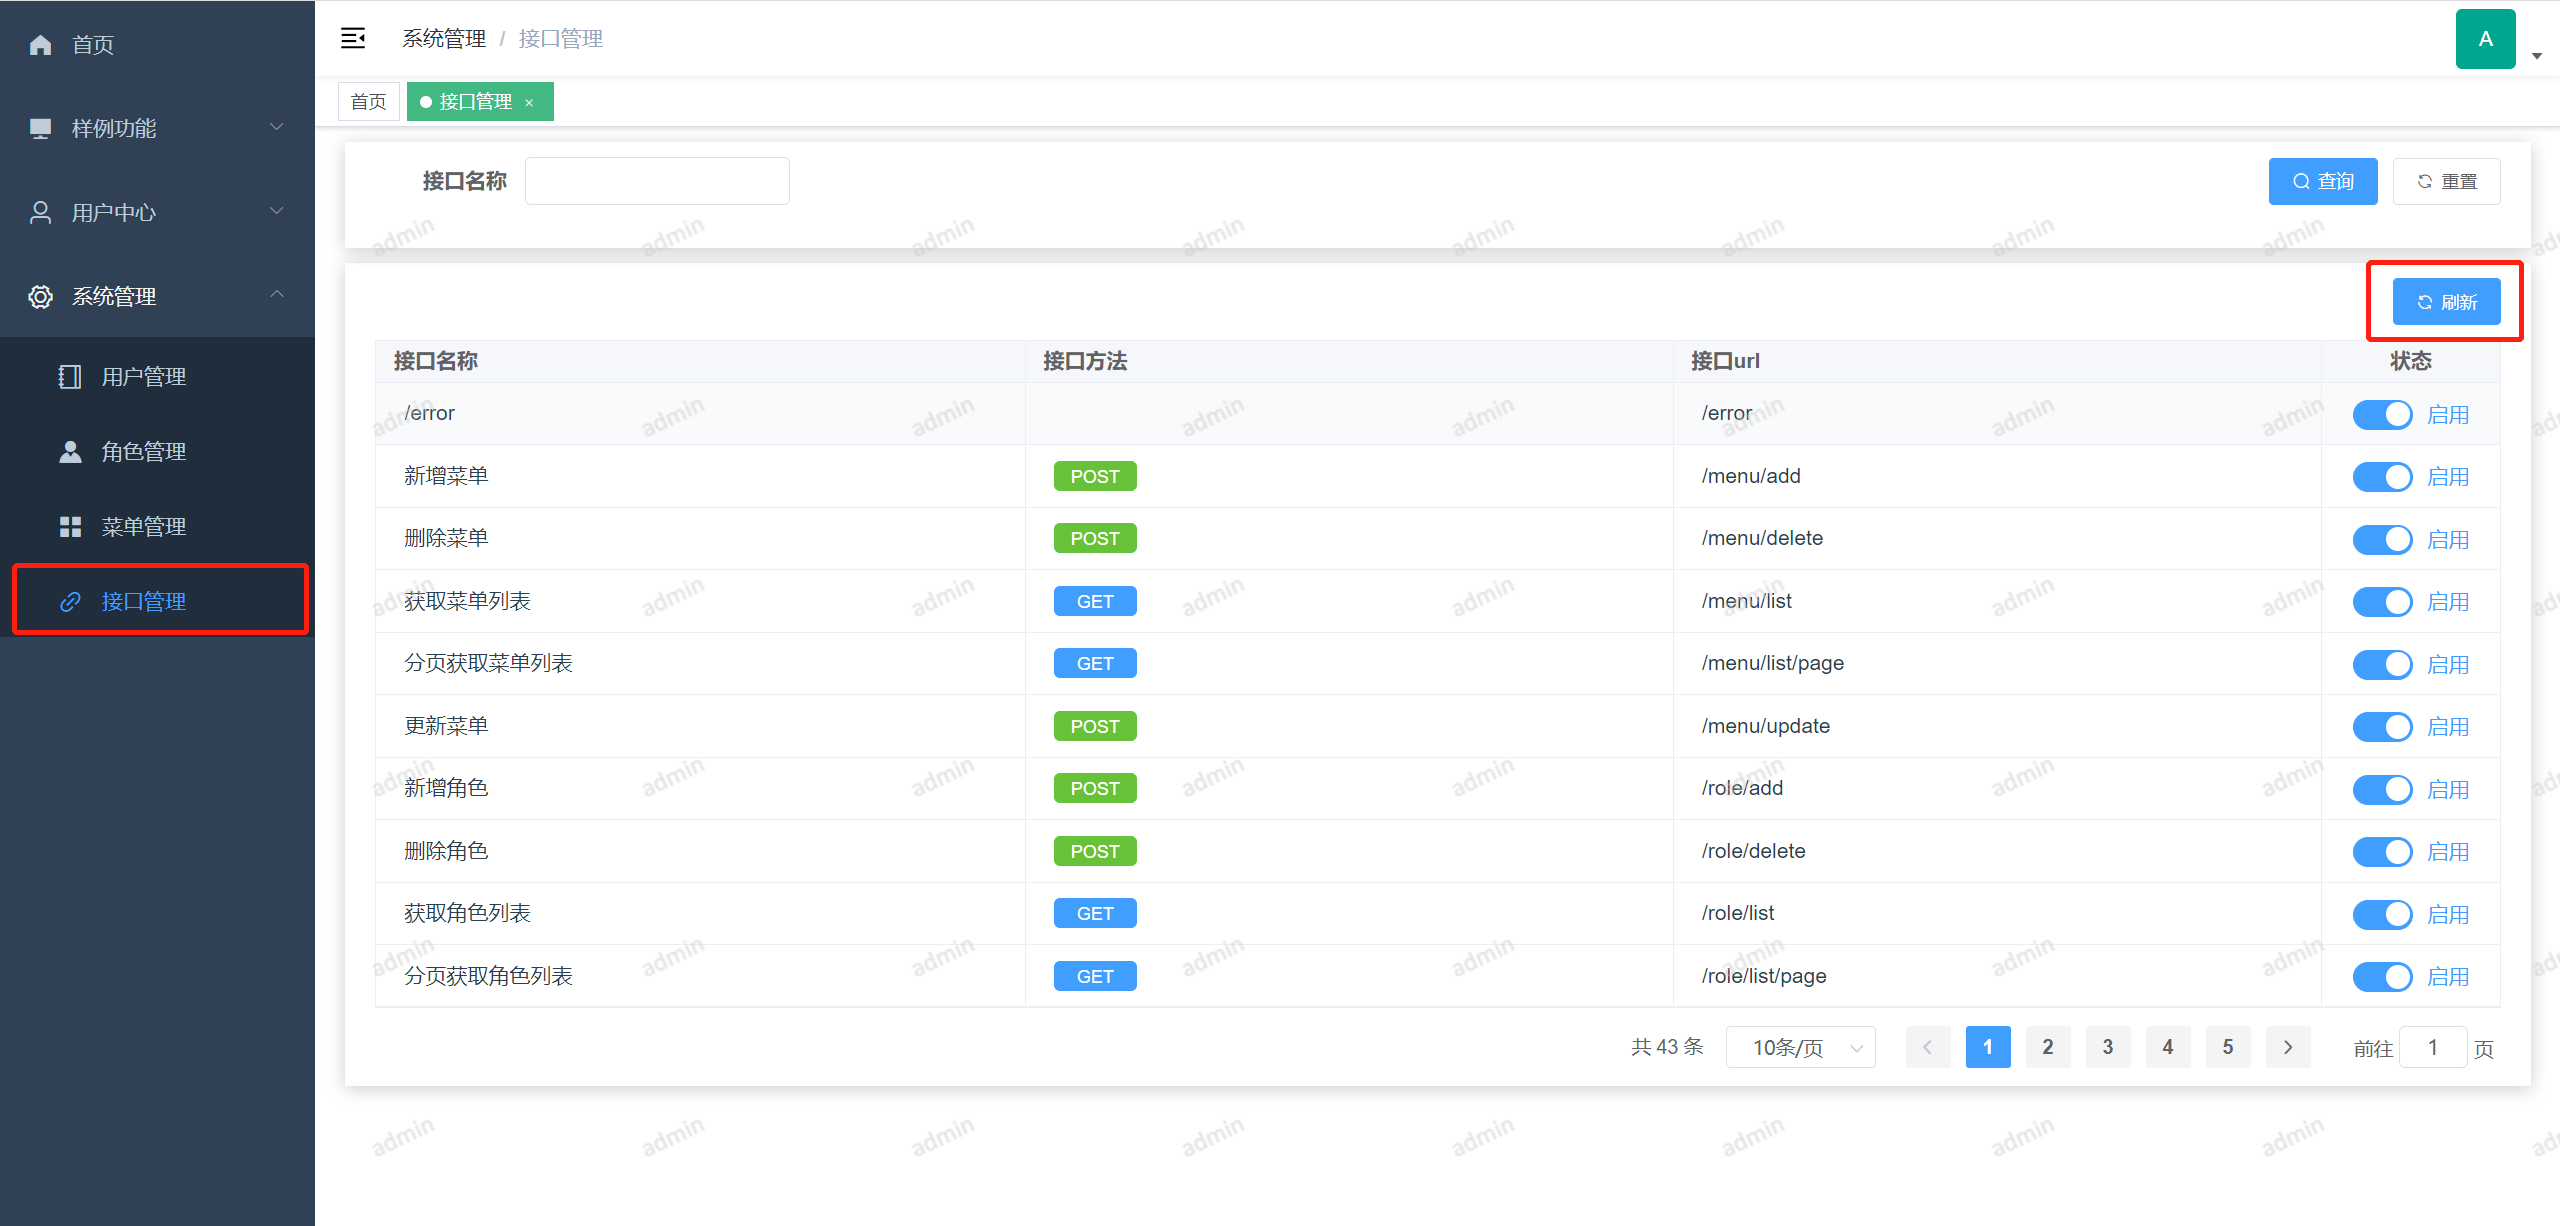
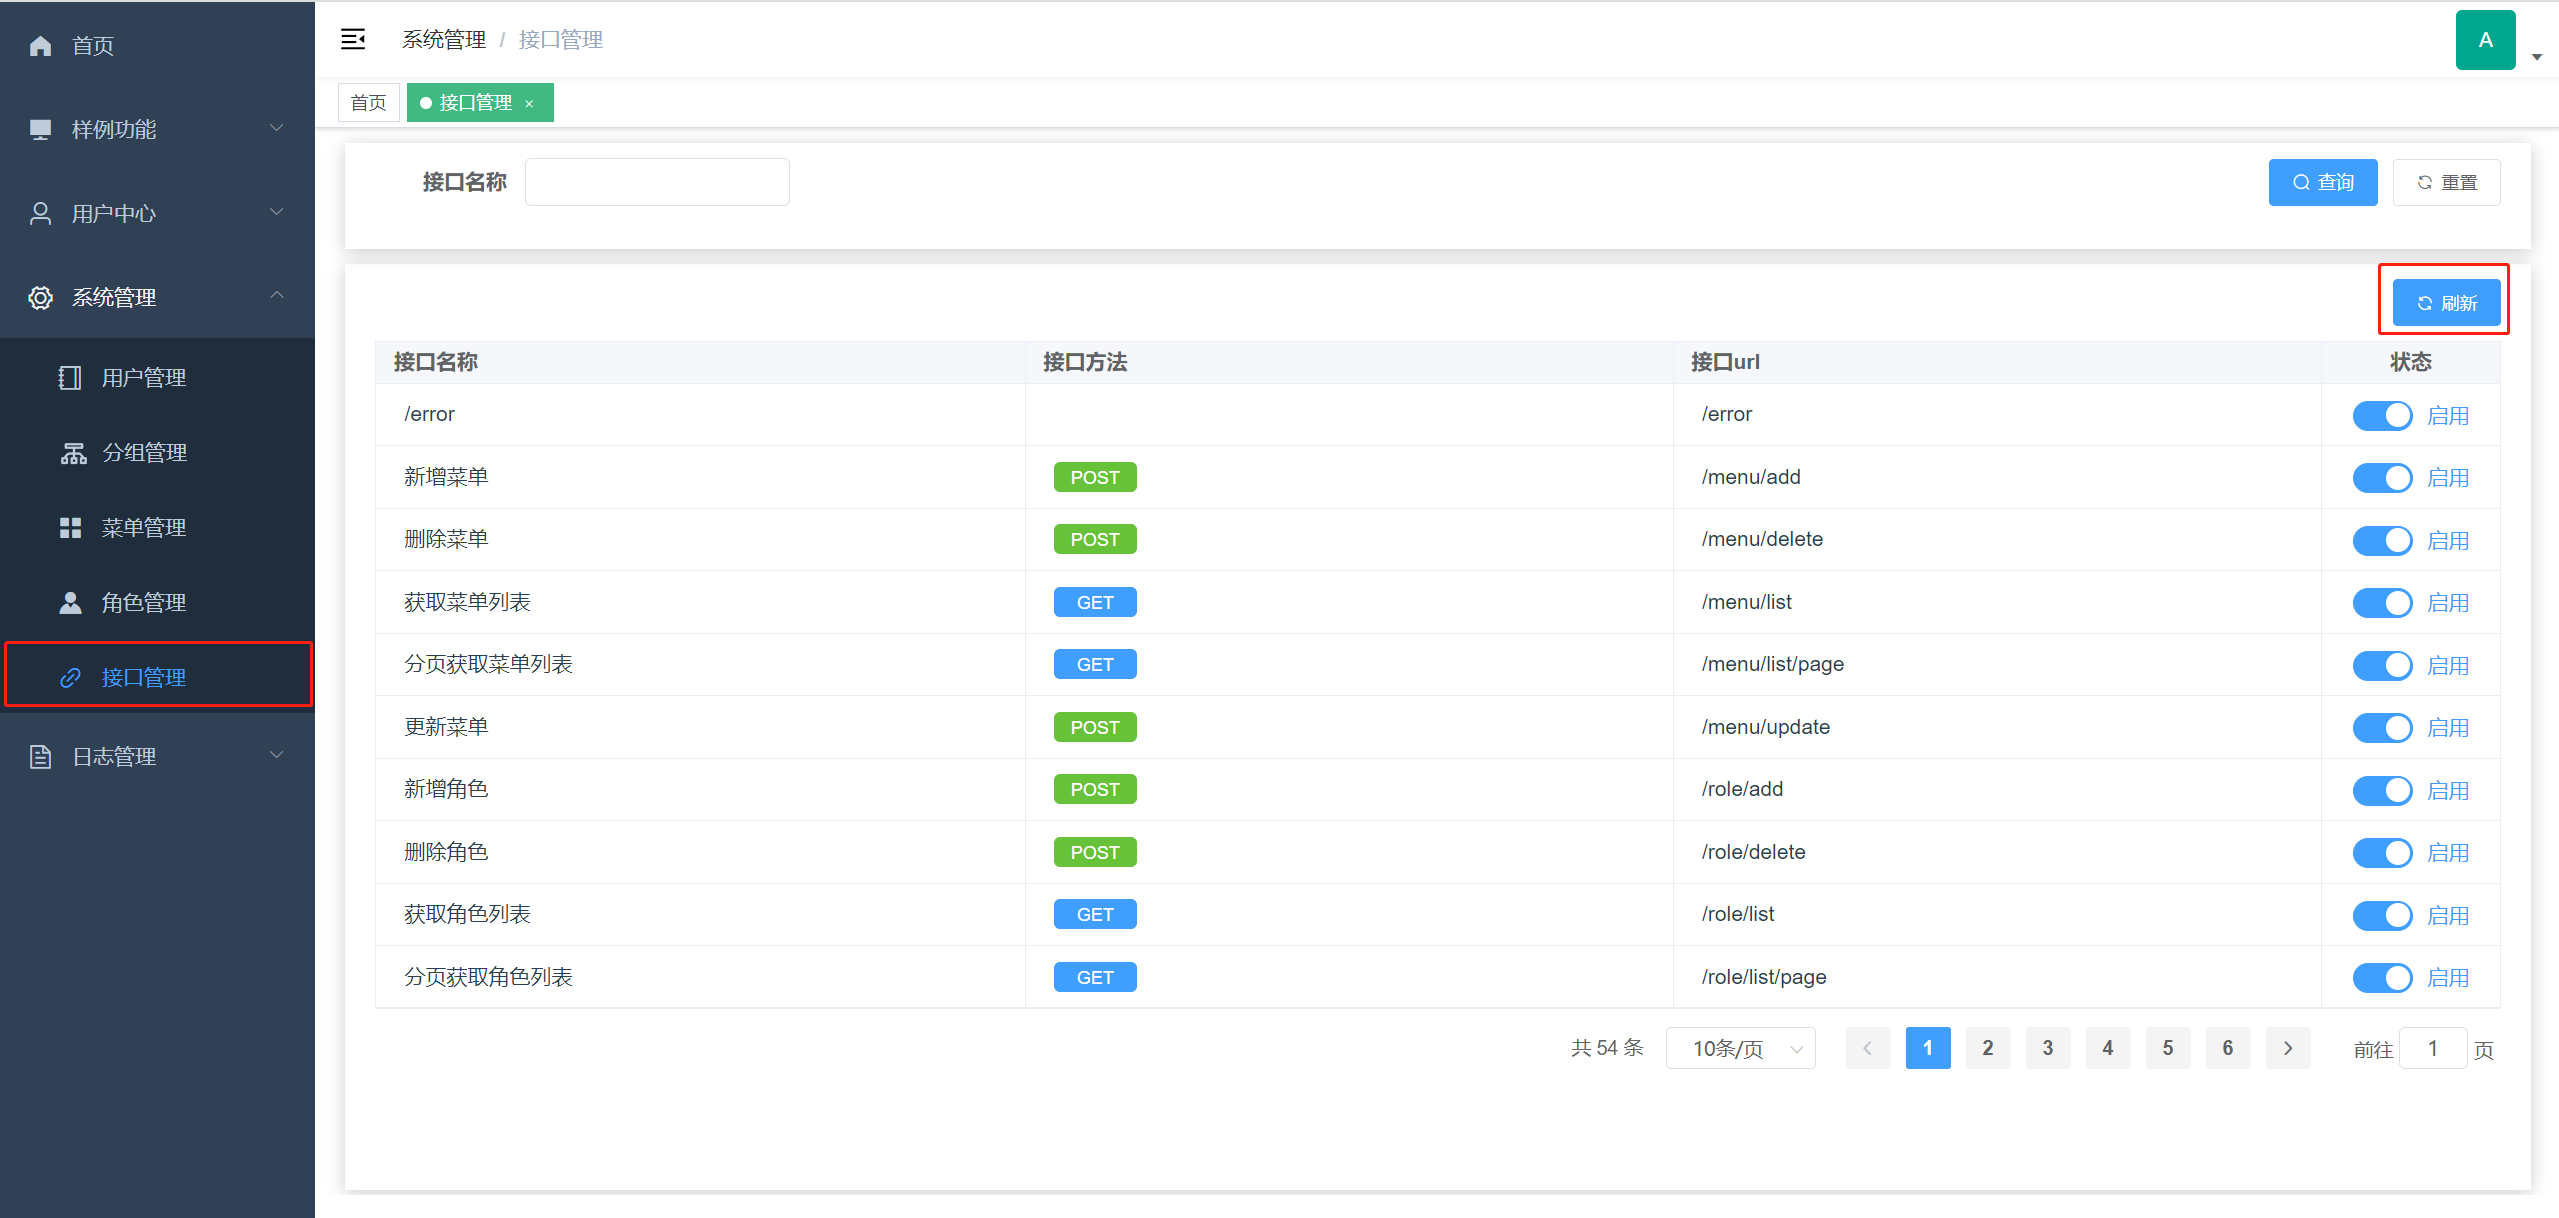
修改：优化和更新了说明文档，更新了展示图片，优化和添加功能说明等。

diff --git a/README.md b/README.md
@@ -3,51 +3,52 @@
 
 mbp是一个管理系统的基础项目模板，其主要作用是提供管理系统的基础功能，使开发者不必再次开发重复的功能，可以更快的进入核心业务的开发。
 
-![image](img/MBP-1.png "BMP-1")
+采用前后端分离的方案，这里为**前端项目**，前往[后端项目](https://github.com/DY56GO/mbp_back)。
+
+| ![SHOW-1](img/SHOW-1.png) | ![SHOW-2](img/SHOW-2.png) |
+| ------------------------- | ------------------------- |
+| ![SHOW-3](img/SHOW-3.png) | ![SHOW-4](img/SHOW-4.png) |
+| ![SHOW-5](img/SHOW-5.png) | ![SHOW-6](img/SHOW-6.png) |
 
 
 
-### 基础功能
+### 功能列表
 
-首页：目前为空白页面，开发者可根据业务需求修改。
+- 首页：目前为空白页面，开发者可根据业务需求修改。
 
-用户中心：提供用户修改自身信息的功能。
+- 样例功能：提供一些样例功能。
 
-	我的信息：修改用户自身基本信息。
+			交易列表：一个查询列表展示，其中包括：条件查询、新增、修改、删除、数据导出。
 
-	修改密码：修改用户自身密码。
+			交易分析：使用Echarts对交易列表的数据进行可视化，其中包括：箱型图和折线图。
 
-系统管理：管理员对系统的操作功能。
+			（交易数据说明，来源于[和鲸社区](https://www.heywhale.com/home)，数据为2015年至2022年Au99.95（黄金）交易数据）
 
-	用户管理：管理系统的所有用户，其中包括：条件查询、新增、修改、删除、启用用户，用户权限角色分配。
+- 用户中心：提供用户修改自身信息的功能。
 
-	分组管理：管理系统的所有用户组，其中包括：条件查询、新增、修改、删除。
+			我的信息：修改用户自身基本信息。
 
-	角色管理：管理系统的所有权限角色，其中包括：条件查询、新增、修改、删除、启用角色，角色菜单、角色接口的权限分配（可选）。
+			修改密码：修改用户自身密码。
 
-	菜单管理：管理系统的所有菜单，其中包括：条件查询、新增、修改、删除、隐藏菜单。
+- 系统管理：管理员对系统的操作功能。
 
-	接口管理（可选）：管理系统的所有接口，自动获取后台接口信息，可控制接口的开启（系统设置的白名单不受控制）。
+			用户管理：管理系统的所有用户，其中包括：条件查询、新增、修改、删除、启用用户，用户权限角色分配。
+
+			分组管理：管理系统的所有用户组，其中包括：条件查询、新增、修改、删除。
+
+			角色管理：管理系统的所有权限角色，其中包括：条件查询、新增、修改、删除、启用角色，角色菜单、角色接口的权限分配（可选）。
+
+			菜单管理：管理系统的所有菜单，其中包括：条件查询、新增、修改、删除、隐藏菜单。
+
+			接口管理（可选）：管理系统的所有接口，自动获取后台接口信息，可控制接口的开启（系统设置的白名单不受控制）。
+
+- 日志管理：提供系统记录日志的功能，请根据情况选择性使用（开启），特别是请求日志功能，不建议开启，线上的请求会很多。
+
+			登录日志（可选）：记录登录。
+
+			请求日志（可选）：记录请求。
 
 
-
-### 样例功能
-
-样例功能：提供一些样例功能。
-
-	交易列表：一个查询列表展示，其中包括：条件查询、新增、修改、删除、数据导出。
-
-	交易分析：使用Echarts对交易列表的数据进行可视化，其中包括：箱型图和折线图。
-
-	（以上数据说明，来源与网络[和鲸社区](https://www.heywhale.com/home)，数据为2015年至2022年Au99.95（黄金）交易数据）
-
-
-
-#### 样例功能展示
-
-| ![image](img/MBP-2.png "BMP-2") | ![image](img/MBP-3.png "BMP-3") |
-| ------------------------------- | ------------------------------- |
-| ![image](img/MBP-4.png "BMP-4") | ![image](img/MBP-5.png "BMP-5") |
 
 ### 技术栈
 
